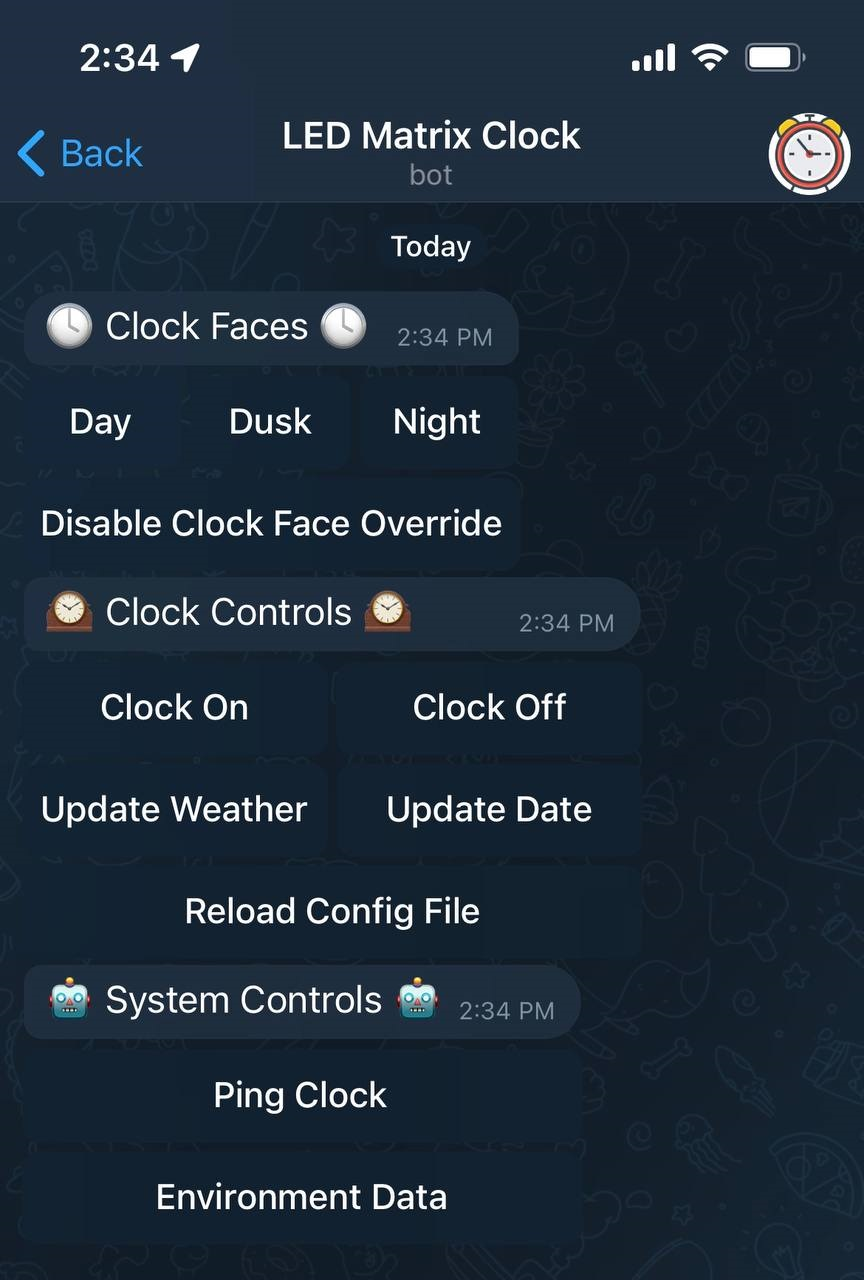
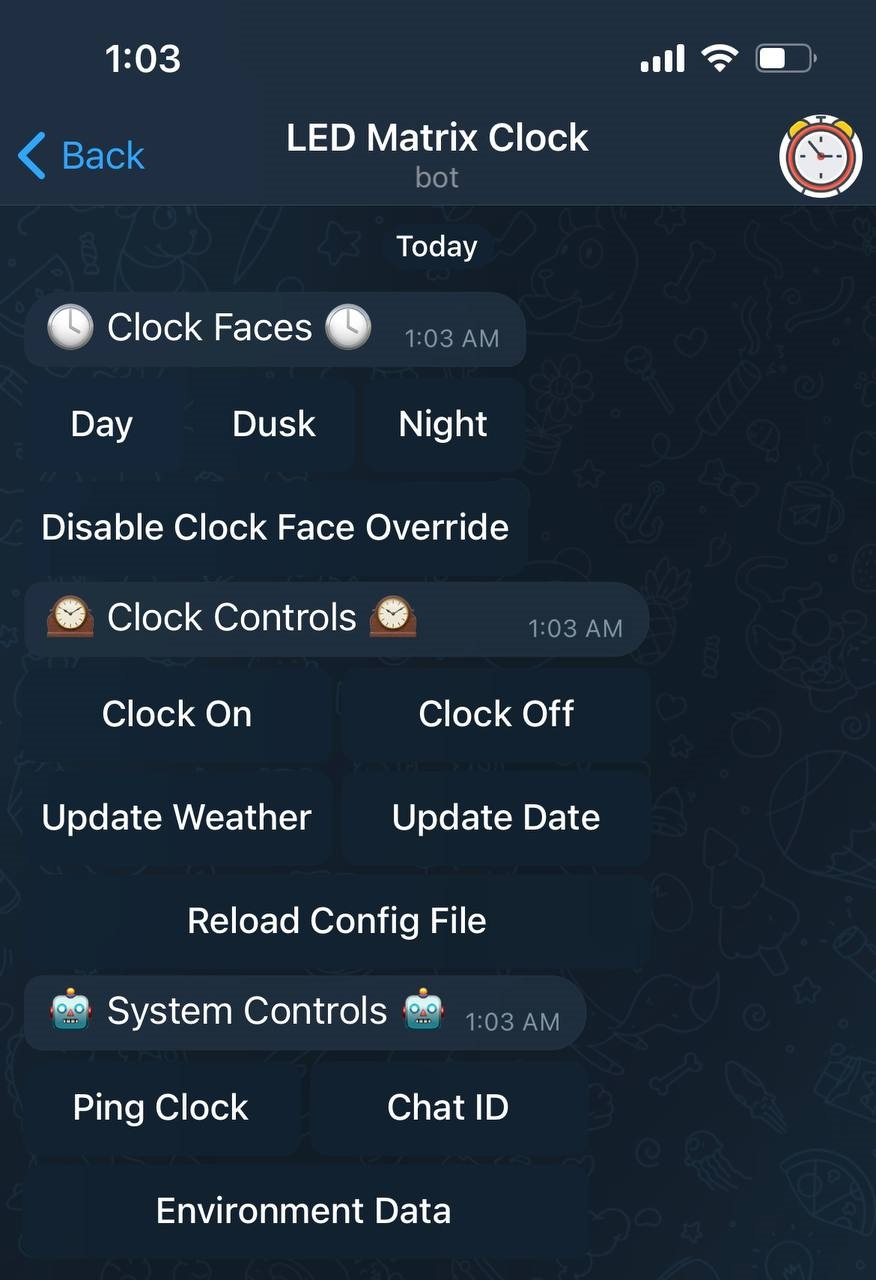
Added error checking for invalid JSON files

diff --git a/matrix_data.cpp b/matrix_data.cpp
@@ -69,7 +69,7 @@ namespace matrix_clock {
         return names_array;
     }
 
-    void matrix_data::load_clock_faces() {
+    bool matrix_data::load_clock_faces() {
         // clear the current clock faces if they exist
 
         for (matrix_clock::clock_face* current_face : clock_faces) {    // delete all old clock faces
@@ -82,88 +82,96 @@ namespace matrix_clock {
 
         // LOADING NEW DATA BELOW
 
-        Json::Value jsonData;   // full json from the config file
-        JSONCPP_STRING error;
-        std::ifstream file_stream(config_file); // grab the matrix_config file
+        try {   // attempt to load data
+            Json::Value jsonData;   // full json from the config file
+            JSONCPP_STRING error;
+            std::ifstream file_stream(config_file); // grab the matrix_config file
 
-        Json::CharReaderBuilder builder;    // json value reader
+            Json::CharReaderBuilder builder;    // json value reader
 
-        if (!parseFromStream(builder, file_stream, &jsonData, &error)) {
-            file_stream.close();    // close file
-            return;     // if the config file could not be parsed, return and the main program will kill the application
-        }
-
-        file_stream.close();    // file is valid and data has been loaded, close the file and begin parsing
-
-        for (Json::Value::ArrayIndex face_index = 0; face_index != jsonData["clock_faces"].size(); face_index++) {  // loop through ALL clock face declared in the file
-            Json::Value clock_face_data = jsonData["clock_faces"][face_index];
-            std::string name = clock_face_data["name"].asString();
-
-            matrix_clock::matrix_color bg_color;
-
-            if (clock_face_data["bg_color"]["built_in_color"].asString() == "none") {    // if a prebuilt color is NOT USED (denoted "none" in config), load in RGB values
-                int red = clock_face_data["bg_color"]["r"].asInt();
-                int green = clock_face_data["bg_color"]["g"].asInt();
-                int blue = clock_face_data["bg_color"]["b"].asInt();
-
-                bg_color = matrix_clock::matrix_color(red, green, blue);
-            } else {                                                            // a prebuilt color is used, read it in from string
-                std::string prebuilt_color_name = clock_face_data["bg_color"]["built_in_color"].asString();
-                bg_color = matrix_clock::matrix_color(prebuilt_color_name);
+            if (!parseFromStream(builder, file_stream, &jsonData, &error)) {
+                file_stream.close();    // close file
+                std::cerr << "Invalid JSON file provided." << std::endl;
+                return false;           // if the config file could not be parsed, return and the main program will kill the application
             }
 
-            // create a new clock face at the current index with the given name and background color
-            matrix_clock::clock_face* config_clock_face = new matrix_clock::clock_face(name, bg_color);
+            file_stream.close();    // file is valid and data has been loaded, close the file and begin parsing
 
-            // loop through ALL time periods within the current interface
-            for (Json::Value::ArrayIndex times_index = 0; times_index != clock_face_data["time_periods"].size(); times_index++) {
-                Json::Value time_data = clock_face_data["time_periods"][times_index];
+            for (Json::Value::ArrayIndex face_index = 0; face_index != jsonData["clock_faces"].size(); face_index++) {  // loop through ALL clock face declared in the file
+                Json::Value clock_face_data = jsonData["clock_faces"][face_index];
+                std::string name = clock_face_data["name"].asString();
 
-                int start_hour = time_data["start_hour"].asInt();       // grab fields from the time periods section of the clock face
-                int start_minute = time_data["start_minute"].asInt();
-                int end_hour = time_data["end_hour"].asInt();
-                int end_minute = time_data["end_minute"].asInt();
+                matrix_clock::matrix_color bg_color;
 
-                // instantiate a new time period and add it to the clock face
-                matrix_clock::time_period clock_face_time_period(start_hour, start_minute, end_hour, end_minute);
+                if (clock_face_data["bg_color"]["built_in_color"].asString() == "none") {    // if a prebuilt color is NOT USED (denoted "none" in config), load in RGB values
+                    int red = clock_face_data["bg_color"]["r"].asInt();
+                    int green = clock_face_data["bg_color"]["g"].asInt();
+                    int blue = clock_face_data["bg_color"]["b"].asInt();
 
-                config_clock_face->add_time_period(clock_face_time_period); // add the time frame to the clock face object
-            }
-
-            // now we are going to loop through all text lines
-            for (Json::Value::ArrayIndex text_index = 0; text_index != clock_face_data["text_lines"].size(); text_index++) {
-                Json::Value text_data = clock_face_data["text_lines"][text_index];
-
-                matrix_clock::matrix_color color;       // variables that will need to be filled
-                matrix_clock::matrix_font font_size;
-                int x_pos, y_pos;
-                std::string text;
-
-                if (text_data["color"]["built_in_color"].asString() == "none") {    // if a prebuilt color is NOT USED (denoted "none" in config), load in RGB values
-                    int red = text_data["color"]["r"].asInt();
-                    int green = text_data["color"]["g"].asInt();
-                    int blue = text_data["color"]["b"].asInt();
-
-                    color = matrix_clock::matrix_color(red, green, blue);
+                    bg_color = matrix_clock::matrix_color(red, green, blue);
                 } else {                                                            // a prebuilt color is used, read it in from string
-                    std::string prebuilt_color_name = text_data["color"]["built_in_color"].asString();
-                    color = matrix_clock::matrix_color(prebuilt_color_name);
+                    std::string prebuilt_color_name = clock_face_data["bg_color"]["built_in_color"].asString();
+                    bg_color = matrix_clock::matrix_color(prebuilt_color_name);
                 }
 
-                font_size = matrix_clock::font::font_from_string(text_data["font_size"].asString());    // grab font size, positioning, and text
-                x_pos = text_data["x_position"].asInt();
-                y_pos = text_data["y_position"].asInt();
-                text = text_data["text"].asString();
+                // create a new clock face at the current index with the given name and background color
+                matrix_clock::clock_face* config_clock_face = new matrix_clock::clock_face(name, bg_color);
 
-                if (text.find("{second}") != std::string::npos)         // if there is a second in the variables, let the clock face know
-                    config_clock_face->set_contains_second_variable(true);      // in this scenario we need to update the screen secondly instead of minutely
+                // loop through ALL time periods within the current interface
+                for (Json::Value::ArrayIndex times_index = 0; times_index != clock_face_data["time_periods"].size(); times_index++) {
+                    Json::Value time_data = clock_face_data["time_periods"][times_index];
 
-                matrix_clock::text_line clock_face_text_line(color, font_size, x_pos, y_pos, text); // instantiate the text line object
+                    int start_hour = time_data["start_hour"].asInt();       // grab fields from the time periods section of the clock face
+                    int start_minute = time_data["start_minute"].asInt();
+                    int end_hour = time_data["end_hour"].asInt();
+                    int end_minute = time_data["end_minute"].asInt();
 
-                config_clock_face->add_text(clock_face_text_line);      // add the text line to the current clock face
+                    // instantiate a new time period and add it to the clock face
+                    matrix_clock::time_period clock_face_time_period(start_hour, start_minute, end_hour, end_minute);
+
+                    config_clock_face->add_time_period(clock_face_time_period); // add the time frame to the clock face object
+                }
+
+                // now we are going to loop through all text lines
+                for (Json::Value::ArrayIndex text_index = 0; text_index != clock_face_data["text_lines"].size(); text_index++) {
+                    Json::Value text_data = clock_face_data["text_lines"][text_index];
+
+                    matrix_clock::matrix_color color;       // variables that will need to be filled
+                    matrix_clock::matrix_font font_size;
+                    int x_pos, y_pos;
+                    std::string text;
+
+                    if (text_data["color"]["built_in_color"].asString() == "none") {    // if a prebuilt color is NOT USED (denoted "none" in config), load in RGB values
+                        int red = text_data["color"]["r"].asInt();
+                        int green = text_data["color"]["g"].asInt();
+                        int blue = text_data["color"]["b"].asInt();
+
+                        color = matrix_clock::matrix_color(red, green, blue);
+                    } else {                                                            // a prebuilt color is used, read it in from string
+                        std::string prebuilt_color_name = text_data["color"]["built_in_color"].asString();
+                        color = matrix_clock::matrix_color(prebuilt_color_name);
+                    }
+
+                    font_size = matrix_clock::font::font_from_string(text_data["font_size"].asString());    // grab font size, positioning, and text
+                    x_pos = text_data["x_position"].asInt();
+                    y_pos = text_data["y_position"].asInt();
+                    text = text_data["text"].asString();
+
+                    if (text.find("{second}") != std::string::npos)         // if there is a second in the variables, let the clock face know
+                        config_clock_face->set_contains_second_variable(true);      // in this scenario we need to update the screen secondly instead of minutely
+
+                    matrix_clock::text_line clock_face_text_line(color, font_size, x_pos, y_pos, text); // instantiate the text line object
+
+                    config_clock_face->add_text(clock_face_text_line);      // add the text line to the current clock face
+                }
+
+                add_clock_face(config_clock_face);        // add the clock face to the container
             }
 
-            add_clock_face(config_clock_face);        // add the clock face to the container
+            return true;        // Return true because we successfully parsed the file
+        } catch (const Json::Exception& exception) {    // if data could not be loaded, return false so main kills the program - we need valid data to be able to load the clock faces
+            std::cerr << "Could not parse JSON values: " << exception.what() << std::endl;  // print out the error to help the user find their error
+            return false;
         }
     }
 }

diff --git a/matrix_clock.cpp b/matrix_clock.cpp
@@ -113,10 +113,14 @@ int main(int argc, char* argv[]) {
     rgb_matrix::FrameCanvas* offscreen = matrix->CreateFrameCanvas();   // create an offscreen canvas
 
     matrix_clock::matrix_data clock_faces(config_file);    // create clock face container and load data from the config file
-    clock_faces.load_clock_faces();
+
+    if (!clock_faces.load_clock_faces()) {
+        cerr << "Killing program, please enter valid JSON data into " << config_file << " and run again." << endl;
+        return EXIT_FAILURE;
+    }
 
     if (clock_faces.get_clock_face_count() == 0) {  // check if none loaded
-        cerr << "Invalid configuration file provided." << endl;   // kill the program because we cannot have 0 interfaces
+        cerr << "No valid clock faces found. Make sure at least one clock face is defined in " << config_file << endl;   // kill the program because we cannot have 0 interfaces
         return EXIT_FAILURE;
     }
 

diff --git a/telegram_handler.cpp b/telegram_handler.cpp
@@ -180,9 +180,9 @@ namespace matrix_clock {
                     container->load_clock_faces();
                     container->set_update_required(true);       // force update
                 } else if (query->data == "command_chatid") {
-                    std::string id = "Chat ID: ";
-                    id += query->message->chat->id;
-                    bot.getApi().sendMessage(query->message->chat->id, id);
+                    std::stringstream stream;
+                    stream << "Chat ID: " << query->message->chat->id;
+                    bot.getApi().sendMessage(query->message->chat->id, stream.str());
                 } else if (query->data == "command_print_data") {
                     int times[4];
                     var_util->get_time(times);

diff --git a/matrix_clock.h b/matrix_clock.h
@@ -325,7 +325,7 @@ namespace matrix_clock {
             //program using that data and update everything when needed
             //this MUST BE called before you attempt to write any data to the screen
             //otherwise nothing will be loaded and there will be no information to grab for writing
-            void load_clock_faces();
+            bool load_clock_faces();
 
             // get the current clock face
             inline clock_face* get_current(void) const { return current; }

diff --git a/README.md b/README.md
@@ -165,7 +165,7 @@ Once the bot is up and running, use the */buttons* command to generate the butto
 
 An example of what the telegram interface looks like is below:
 
-<img src="images/telegram.png" width="400" height="600">
+<img src="images/telegram.png" width="400" height="584">
 
 ### What each button does:
 **Clock Interfaces**: The three example buttons "Day", "Dusk", and "Night" represent the three default clock faces that are included in matrix_config.json. If you rename or configure different clock faces in your version of the clock then run the /buttons command, then this will swap those names out with your clock faces.
@@ -183,6 +183,8 @@ An example of what the telegram interface looks like is below:
 **Reload Config File**: If you made changes to a clock face in the configuration file, this allows you to reload it into the application without having to reboot the whole program
 
 **Ping Clock**: This returns a message saying the bot works if it is online.
+
+**Chat ID**: This prints out the chat ID for the telegram bot. This will be used in matrix_config.json if you want to setup scheduled texts with weather data (coming soon).
 
 **Print Environment Data**: This sends all the time and weather information that could be displayed on the screen to your phone.
 
